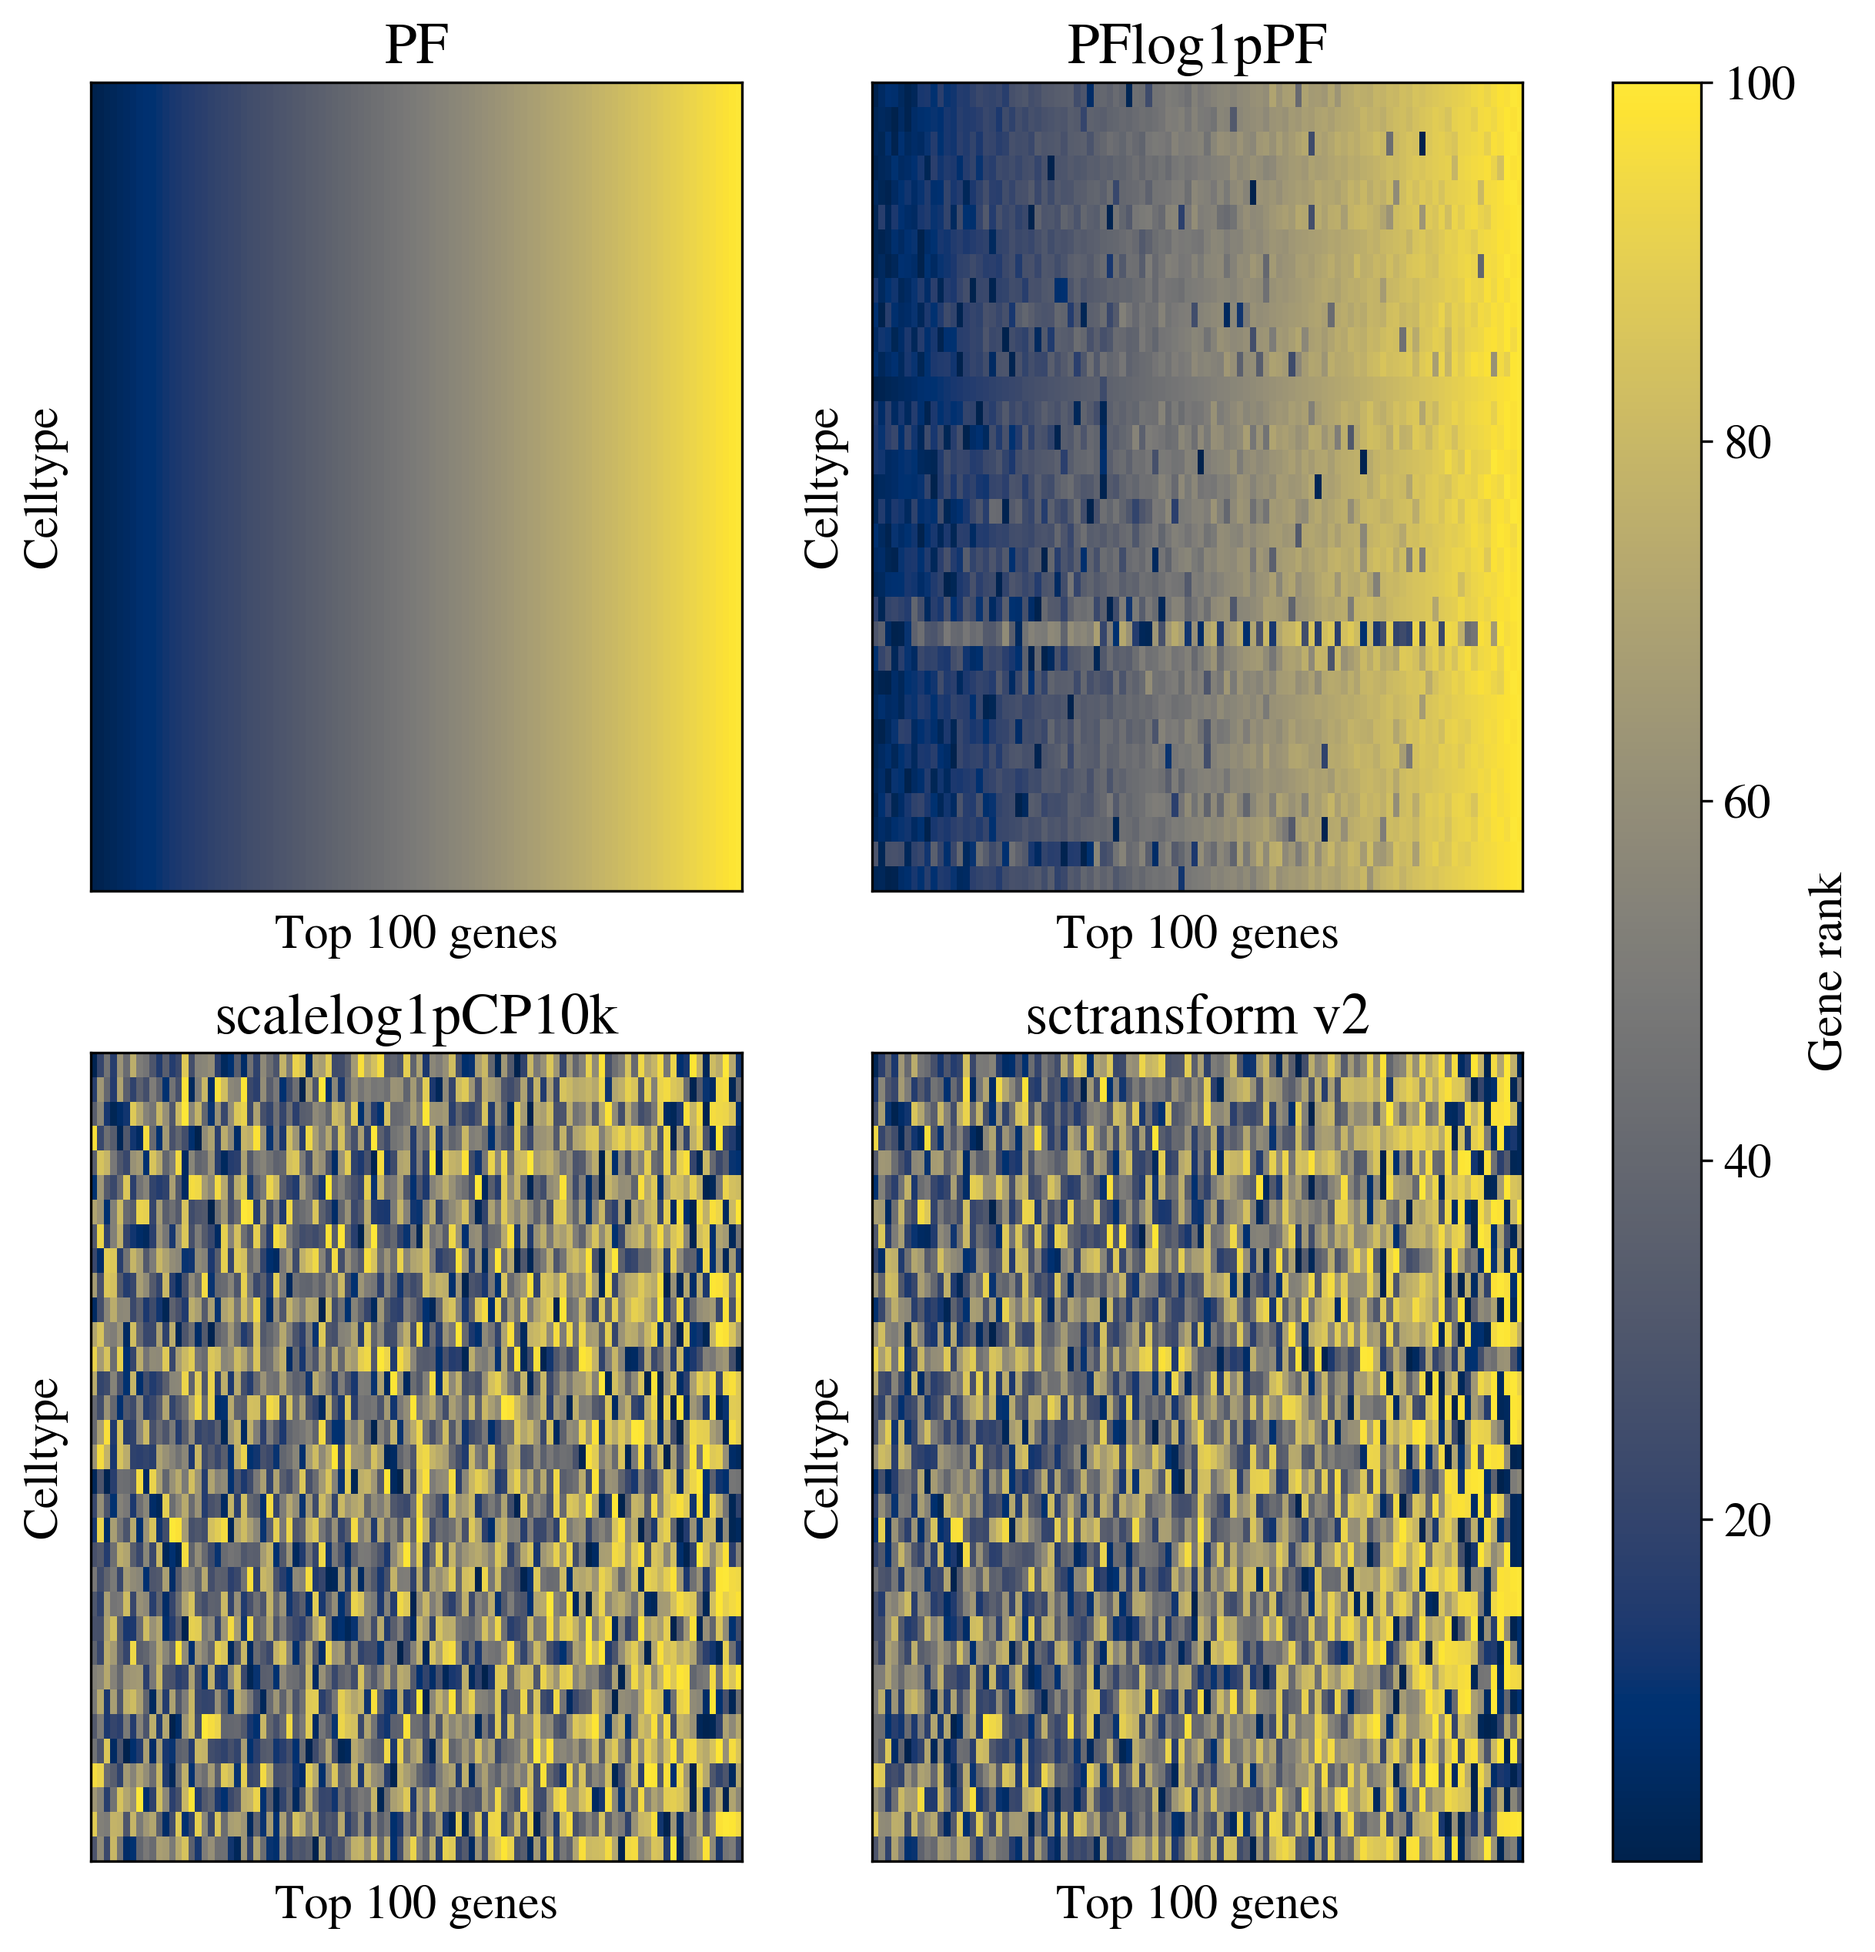
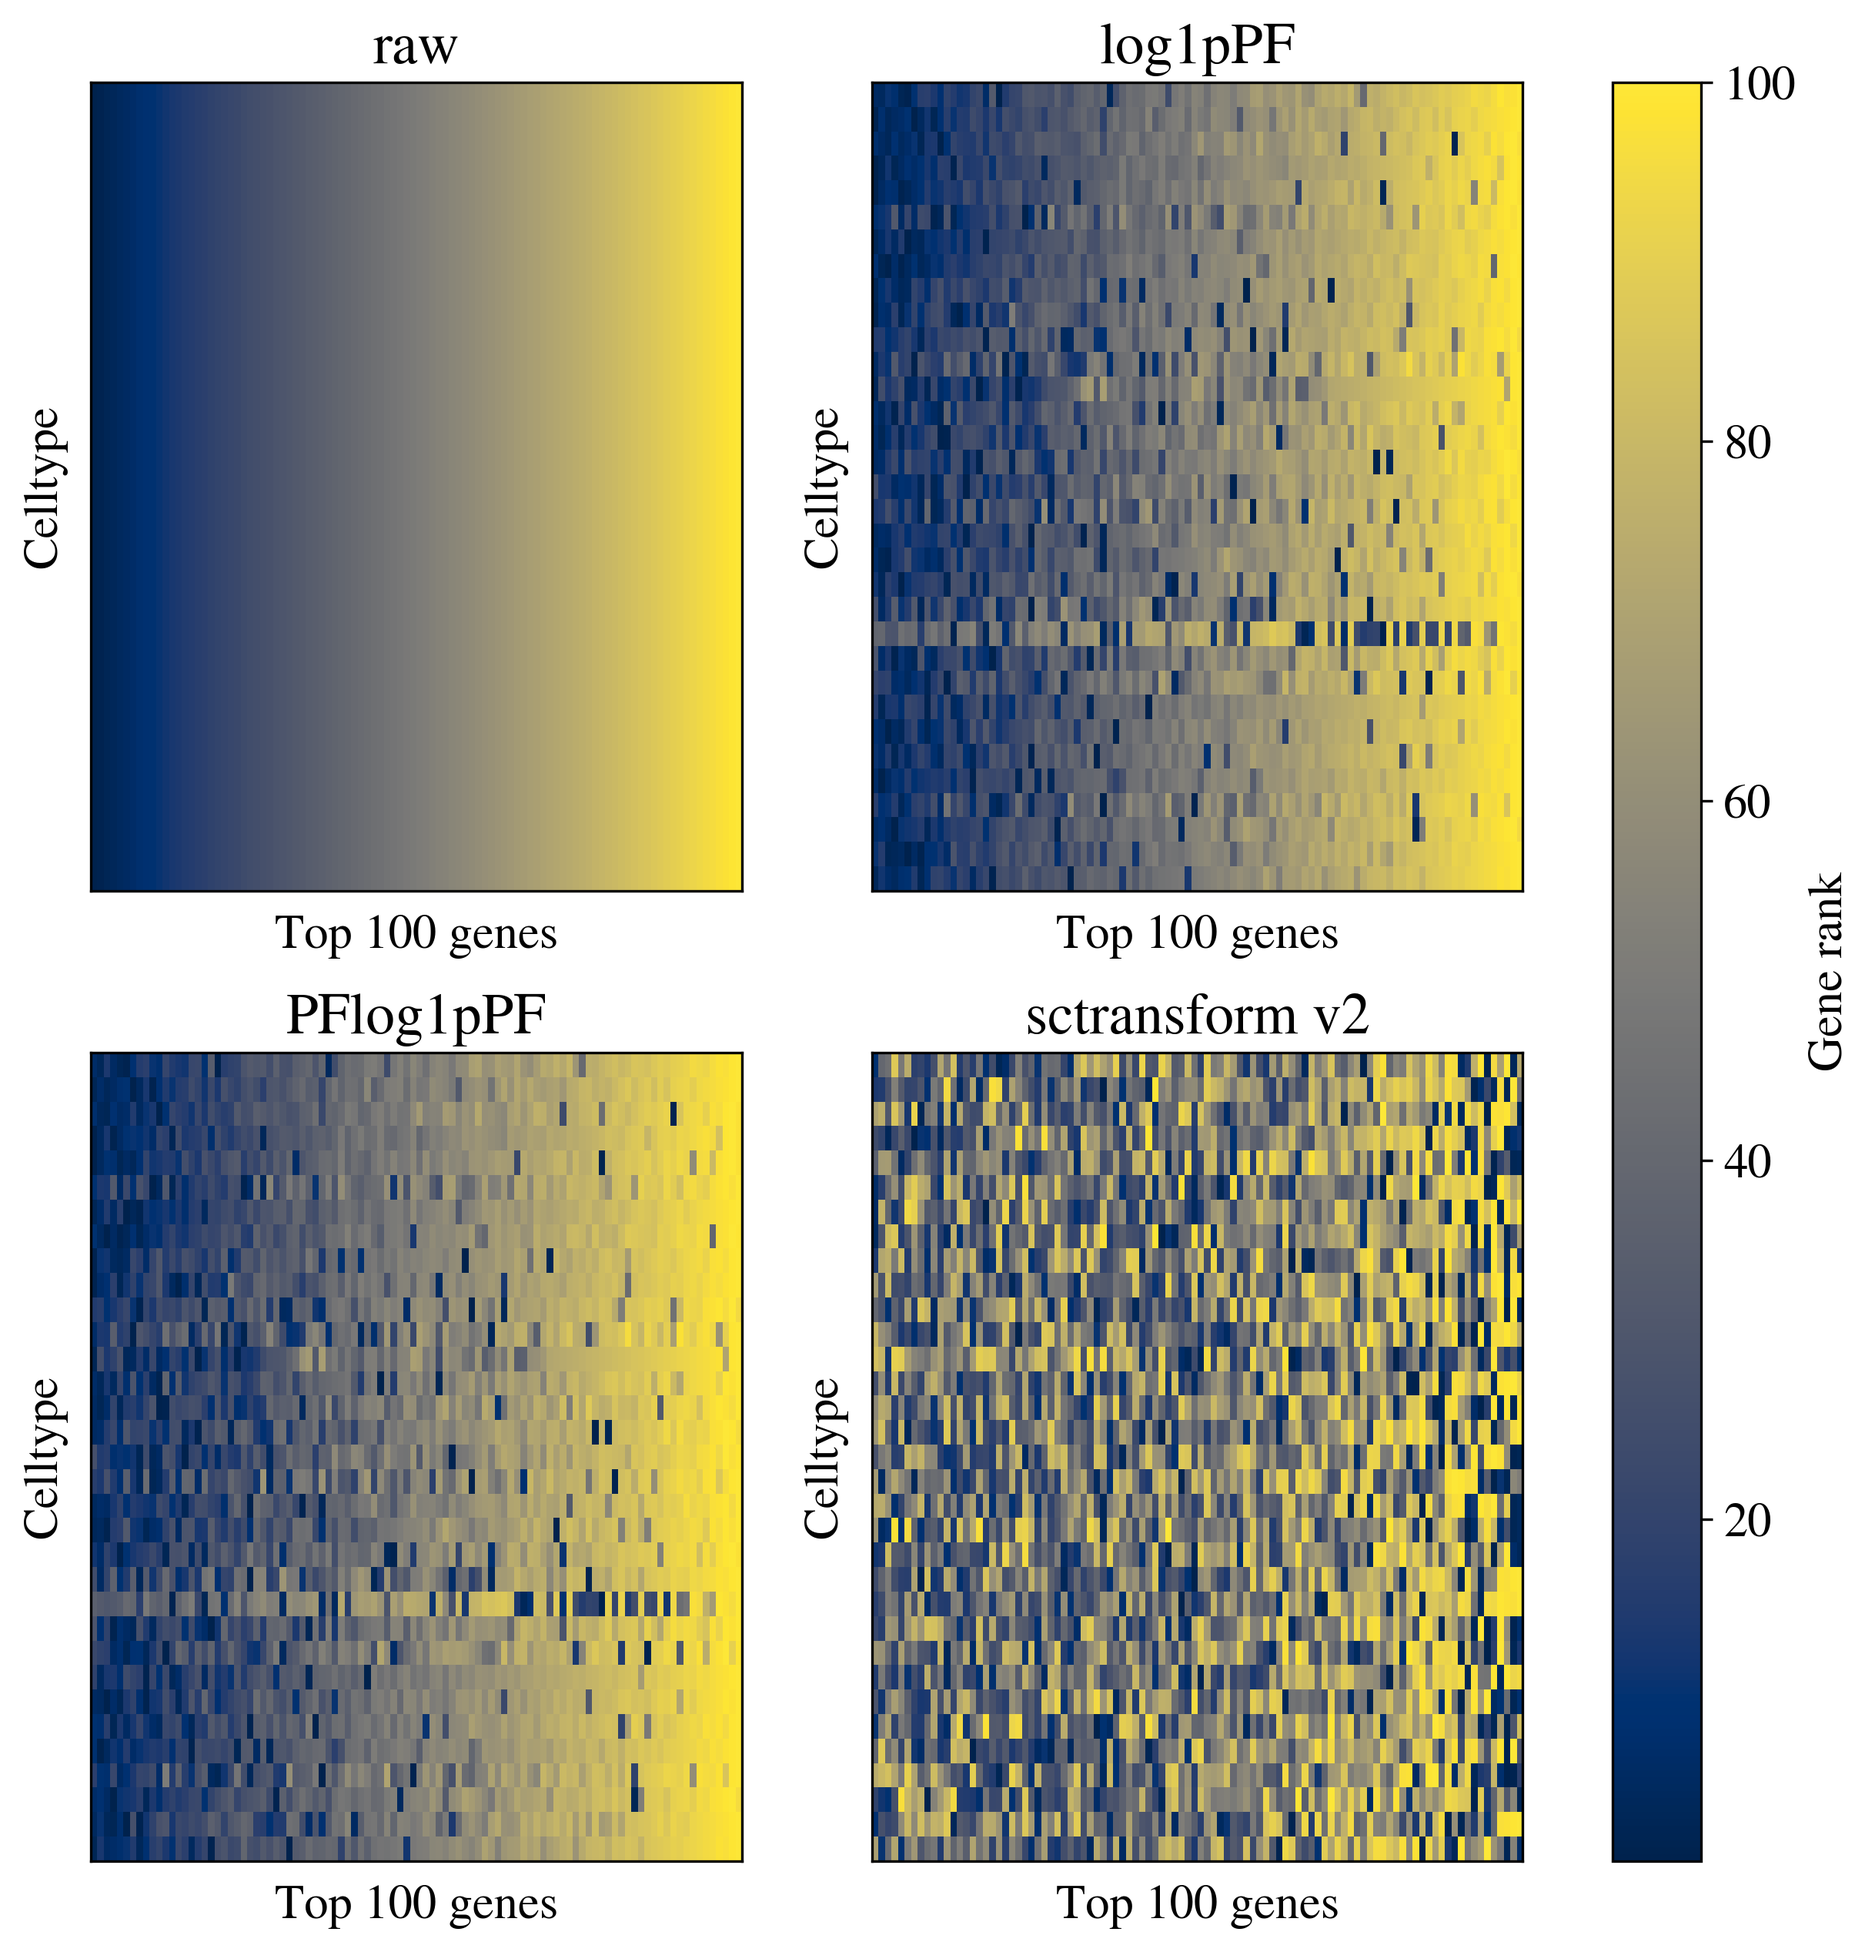
mono heatmap: panels raw / log1pPF / PFlog1pPF / sctransform v2
Replace PF and scalelog1pCP10k panels; use raw as the reference gene ordering
so panel 1 is the clean-gradient baseline. raw->log1pPF->PFlog1pPF preserve the
ranking; sctransform v2 scrambles it.

diff --git a/scripts/plot_mono_heatmap.py b/scripts/plot_mono_heatmap.py
@@ -35,14 +35,15 @@ import pandas as pd
 from scipy import stats
 from scipy.io import mmread
 
-# Display label -> (file under subset_genes/, is_dense_csv). Order = panel order.
+# Display label -> (file under subset_genes/, is_dense_csv). Order = panel order
+# (upper-left, upper-right, lower-left, lower-right).
 PANELS = [
-    ("PF",              "pf.mtx.gz",             False),
-    ("PFlog1pPF",       "pf_log_pf.mtx.gz",      False),
-    ("scalelog1pCP10k", "cp10k_log_scale.csv.gz", True),
-    ("sctransform",     "sctransform.csv.gz",    True),
+    ("raw",         "raw.mtx.gz",         False),
+    ("log1pPF",     "pf_log.mtx.gz",      False),
+    ("PFlog1pPF",   "pf_log_pf.mtx.gz",   False),
+    ("sctransform", "sctransform.csv.gz", True),
 ]
-REF = "PF"   # method whose per-celltype top-N order is used for every panel
+REF = "raw"   # method whose per-celltype top-N order is used for every panel
 
 
 def load_matrix(path, dense):
